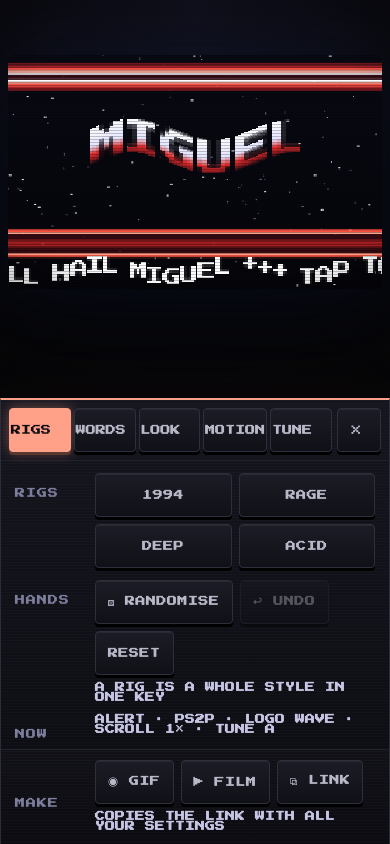
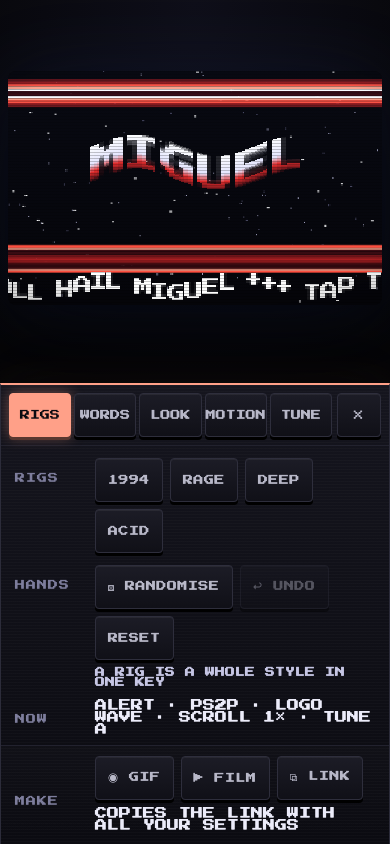
v9: the field types onto the glass, and the bay stops juggling margins
- scrolltext focus parks the whole phrase fitted in the band — the pin
  answers every keystroke; the crawl resumes on blur (scrollhold pin)
- a style change melts the old frame over the new (220ms xfade); a
  section-set swap replays the copper shutter instead of cutting
- mobile tube keeps the 0.45s park curve; deck loses its auto margin so
  the two auto margins on the tube split the room evenly around the glass;
  bay capped at 58dvh, body scrolls
- keys get 44px width everywhere; receipt thumb 56px; NOW/link notes at
  value size; placeholders at caption size; labels flash hot on swap
- greetz clip reaches past the band so bouncing caps never shear

diff --git a/src/app.css b/src/app.css
@@ -196,6 +196,9 @@ body { background: #060608; overflow: hidden; font-family: 'PS2P', monospace; }
 .dkeys { display: flex; flex-wrap: wrap; gap: 7px; align-items: center; flex: 1; }
 /* the note is the value, the label is the caption — hierarchy by light */
 .dnote { font-size: 10px; color: #c6c6e4; align-self: center; user-select: text; }
+/* a confirmation the user asked for (NOW readout, the copied link) is a
+   value, not a whisper — it sits at field-adjacent size */
+.dnote.big { font-size: 12px; color: #ececfa; }
 /* a refused clipboard earns its own row: the whole link in a field that
    selects itself, inside the bay instead of hanging off the keys */
 .urlline {
@@ -209,7 +212,8 @@ body { background: #060608; overflow: hidden; font-family: 'PS2P', monospace; }
 .field.wide { grid-column: 1 / -1; }
 .fcap { font-size: 10px; color: #9a9ab8; letter-spacing: 1px; }
 .resthumb {
-  height: 36px; border: 1px solid #2c2c3a; border-radius: 3px;
+  /* the finished card is worth a real look — tall enough to see the loop */
+  height: 56px; border: 1px solid #2c2c3a; border-radius: 3px;
   image-rendering: pixelated;
   /* the receipt grows out of the rail, not on top of it */
   animation: thumbin 0.22s steps(4) backwards; transform-origin: left center;
@@ -217,7 +221,7 @@ body { background: #060608; overflow: hidden; font-family: 'PS2P', monospace; }
 
 .key {
   font-family: 'PS2P', monospace; font-size: 10px; letter-spacing: 0.5px;
-  min-height: 44px;
+  min-height: 44px; min-width: 44px; justify-content: center;
   color: #b8b8c8;
   background: linear-gradient(#1c1c26, #101017);
   border: 1px solid #2e2e3c; border-radius: 4px;
@@ -253,28 +257,27 @@ body { background: #060608; overflow: hidden; font-family: 'PS2P', monospace; }
   padding: 8px 2px 7px; caret-color: var(--hot, #f80);
   min-width: 0;
 }
-.dinput::placeholder { color: #5d5d78; }
+/* a hint is a caption, not the value — at field size it slices mid-word */
+.dinput::placeholder { color: #5d5d78; font-size: 11px; }
 .dinput:focus { border-bottom-color: var(--hot, #f80); outline: none; }
 
 .prog { font-size: 10px; color: var(--hot, #f80); align-self: center; letter-spacing: 1px; white-space: pre; }
 
-/* a key that answers — a relabel fades the new word in on the spot instead
-   of sliding a whole new label through the keycap */
-@keyframes kswap { from { opacity: 0; } }
-.klabel { display: inline-block; animation: kswap 0.16s steps(2) backwards; }
+/* a key that answers — a relabel flashes through the hot color in two hard
+   steps, a raster flicker, not a fade that hides what changed */
+@keyframes kswap { 0% { opacity: 0; color: var(--hot, #f80); } 50% { opacity: 1; color: var(--hot, #f80); } 100% { color: inherit; } }
+.klabel { display: inline-block; animation: kswap 0.18s steps(2) backwards; }
 .prog.err { color: #ff5a50; }
 .prog.done { color: #7ee08a; }
 
 @media (max-width: 720px) {
-  .app .tube { transition: none; }
-  /* the tube centers in the room above the bay — balanced breathing room
-     beats one long black shelf under the glass */
+  /* the tube parks with the same 0.45s curve as desktop — a jump cut here
+     reads as a bug, not as speed */
   .app.editing .tube { margin-block: auto; }
-  .app.editing .deck { margin-top: auto; }
-  /* four rigs, four equal cells — ACID never orphans a row */
-  .rigkeys { display: grid; grid-template-columns: 1fr 1fr; }
-  .rigkeys .key { justify-content: center; }
-  .deck { width: 100vw; border-radius: 0; margin-top: 8px; }
+  /* the bay owns the bottom edge but takes no auto margin — two auto
+     margins on the tube split the leftover room evenly around the glass,
+     and a tall group scrolls its body instead of shrinking the tube away */
+  .deck { width: 100vw; border-radius: 0; margin-top: 8px; max-height: 58dvh; }
   .decktitle { display: none; }
   .dtabs { gap: 3px; }
   .deckhead { padding: 8px 8px; gap: 5px; }

diff --git a/src/lib/demo.ts b/src/lib/demo.ts
@@ -115,6 +115,22 @@ export class Demo {
     this.applyAssets(a);
   }
 
+  // a style change should arrive, not cut — snapshot the outgoing frame
+  // and let it melt over the new picture for a fifth of a second
+  private xfadeCv: HTMLCanvasElement | null = null;
+  private xfadeT0 = 0;
+  beginXfade() {
+    if (!this.xfadeCv) {
+      this.xfadeCv = document.createElement('canvas');
+      this.xfadeCv.width = W; this.xfadeCv.height = H;
+    }
+    this.xfadeCv.getContext('2d')!.drawImage(this.ctx.canvas, 0, 0);
+    this.xfadeT0 = performance.now();
+  }
+  // a section-set change replays the copper shutter instead of cutting
+  private wipeInT0 = -1e9;
+  wipeIn() { this.wipeInT0 = performance.now(); }
+
   private buildPlasmaPalette(ramp: RampName): Uint32Array {
     const r = RAMPS[ramp];
     // cross a cold ramp through the low indices so the field carries a second
@@ -365,7 +381,9 @@ export class Demo {
     // is ever sliced by the copper
     c.save();
     c.beginPath();
-    c.rect(0, 36, W, 118);
+    // the clip reaches a few px past the band so a bouncing cap height
+    // slides under the frame edge whole instead of shearing on it
+    c.rect(0, 33, W, 124);
     c.clip();
     if (!greetz.length) { c.restore(); this.copperBar(6, t * 3); this.copperBar(H - 30, t * 3 + 3); return; }
     const lineH = 22;
@@ -655,7 +673,7 @@ export class Demo {
   // while the deck is open it can pin the tube to the part being edited —
   // a knob you can't see move isn't a knob. '' means free rotation; a
   // section id pins that section; 'scroll' pins the classic scroller
-  previewMode: '' | 'scroll' | 'greetz' | SectionId = '';
+  previewMode: '' | 'scroll' | 'scrollhold' | 'greetz' | SectionId = '';
 
   // returns true when a pin owns the frame — shared by the live loop and
   // the reduced-motion still so the pin works in both
@@ -665,7 +683,9 @@ export class Demo {
     // absolute clock — a pin must not restart its crawl on the rotator's
     // 9-second boundary
     if (m === 'greetz') { this.renderGreetzBoard(greetz); return true; }
-    if (m === 'scroll' && still) {
+    // a focused scroll field parks the whole phrase fitted in the band —
+    // the line answers the keys as you type; the crawl resumes on blur
+    if (m === 'scrollhold' || (m === 'scroll' && still)) {
       // the frozen pin parks the phrase centered in the band — a fragment
       // frozen mid-crawl is useless to the person editing it. shrink until
       // it fits, and if even that fails keep the START of the line, not
@@ -700,6 +720,7 @@ export class Demo {
   }
 
   renderLoop(t: number, greetz: string[]) {
+    const c = this.ctx;
     if (!this.renderPinned(t, greetz)) {
       const i = Math.floor(t / 9) % (this.sections.length + 1);
       const lt = t - Math.floor(t / 9) * 9;
@@ -720,6 +741,15 @@ export class Demo {
       if (held) this.wipeSkipSec = Math.floor(t / 9);
       else if (lt < 0.45 && this.wipeSkipSec !== Math.floor(t / 9)) this.wipe(lt / 0.45);
     }
+    // a rig swap melts the outgoing frame over the new one; a section-set
+    // swap replays the shutter — the glass tells you the change landed
+    if (this.xfadeCv) {
+      const xu = (performance.now() - this.xfadeT0) / 220;
+      if (xu >= 1) this.xfadeCv = null;
+      else { c.globalAlpha = 1 - xu; c.drawImage(this.xfadeCv, 0, 0); c.globalAlpha = 1; }
+    }
+    const wu = (performance.now() - this.wipeInT0) / 450;
+    if (wu < 1) this.wipe(wu);
     // the mute badge sits above any pin — silence must be visible; a fresh
     // boot answers the same way so the state is never inferred
     if (this.muted) this.tinyText('SND OFF', 3, 0, 1);

diff --git a/src/Deck.tsx b/src/Deck.tsx
@@ -18,7 +18,7 @@ export interface ExportUi {
   error: string | null;
 }
 
-export type Preview = '' | 'scroll' | 'greetz' | SectionId;
+export type Preview = '' | 'scroll' | 'scrollhold' | 'greetz' | SectionId;
 type Tab = 'rigs' | 'words' | 'look' | 'motion' | 'tune';
 const TABS: { id: Tab; label: string }[] = [
   { id: 'rigs', label: 'RIGS' },
@@ -114,6 +114,7 @@ export default function Deck(props: {
   // draft from spec when the field isn't the thing typing it
   const [greetzDraft, setGreetzDraft] = useState(spec.greetz.join(', '));
   const [greetzFocus, setGreetzFocus] = useState(false);
+  const [scrollFocus, setScrollFocus] = useState(false);
   const xRef = useRef<HTMLButtonElement>(null);
   // the manual link hands itself over — focused and selected the moment it
   // appears, so one ⌘C is the whole interaction
@@ -146,9 +147,11 @@ export default function Deck(props: {
   // scroller, the greetz field pins the roll, everything else free-wheels
   useEffect(() => {
     secPinRef.current = '';
-    props.onPreview(greetzFocus ? 'greetz' : tab === 'words' || tab === 'motion' ? 'scroll' : '');
+    // while the scroll field is focused the tube holds the whole phrase
+    // still and fitted; unfocused, the pin crawls it
+    props.onPreview(greetzFocus ? 'greetz' : scrollFocus ? 'scrollhold' : tab === 'words' || tab === 'motion' ? 'scroll' : '');
     return () => props.onPreview('');
-  }, [tab, greetzFocus]); // eslint-disable-line react-hooks/exhaustive-deps
+  }, [tab, greetzFocus, scrollFocus]); // eslint-disable-line react-hooks/exhaustive-deps
 
   // text inputs swallow their own keys except Escape — the deck must still
   // be able to close while a field has focus
@@ -228,7 +231,7 @@ export default function Deck(props: {
               <span className="dnote">A RIG IS A WHOLE STYLE IN ONE KEY</span>
             </Row>
             <Row label="NOW">
-              <span className="dnote">
+              <span className="dnote big">
                 {`${resolved.ramp.toUpperCase()} · ${resolved.font.toUpperCase()} · LOGO ${resolved.logo.toUpperCase()} · SCROLL ${resolved.speed}× · TUNE ${resolved.tune.toUpperCase()}`}
               </span>
             </Row>
@@ -256,12 +259,14 @@ export default function Deck(props: {
             <Field cap="SCROLLTEXT · EMPTY = AUTO" wide>
               <input
                 className="dinput" aria-label="scrolltext" maxLength={200}
-                placeholder="LEAVE EMPTY FOR THE GENERATED ONE" value={spec.text}
+                placeholder="EMPTY = GENERATED" value={spec.text}
+                onFocus={() => setScrollFocus(true)}
+                onBlur={() => setScrollFocus(false)}
                 onChange={(e) => props.onPatch({ text: cleanText(e.target.value) })}
                 onKeyDown={inputKeys}
               />
             </Field>
-            <Field cap="GREETZ · COMMA LIST · EMPTY = AUTO" wide>
+            <Field cap="GREETZ · COMMA LIST" wide>
               <input
                 className="dinput" aria-label="greets list"
                 placeholder="WHO ELSE GETS A SHOUT" value={greetzDraft}
@@ -372,7 +377,7 @@ export default function Deck(props: {
                 <input ref={urlRef} className="dinput urlline" readOnly value={props.linkNote} aria-label="share link"
                   onFocus={(e) => e.currentTarget.select()} />
               ) : (
-                <span className="dnote" aria-live="polite">{props.linkNote}</span>
+                <span className="dnote big" aria-live="polite">{props.linkNote}</span>
               )}
             </>
           )}

diff --git a/src/App.tsx b/src/App.tsx
@@ -342,6 +342,13 @@ export default function App() {
   };
   const patch = (p: Partial<Spec>) => {
     if (STYLE_KEYS.some((k) => k in p)) pushUndo();
+    // the glass acknowledges a style change: a new section set replays the
+    // shutter, a palette/font/logo change melts the old frame over the new
+    const dm = demoRef.current;
+    if (dm && phaseRef.current === 'running' && !REDUCED) {
+      if ('sections' in p) dm.wipeIn();
+      else if (Object.keys(p).some((k) => (STYLE_KEYS as readonly string[]).includes(k) && k !== 'tune')) dm.beginXfade();
+    }
     setSpec((s) => ({ ...s, ...p }));
     // no thud here — the Chip's press already buzzes, and fields call patch
     // on every keystroke; a patch must not mean a sound
@@ -350,6 +357,8 @@ export default function App() {
     const prev = undoRef.current.pop();
     if (!prev) return;
     if (!undoRef.current.length) setCanUndo(false);
+    const dm = demoRef.current;
+    if (dm && phaseRef.current === 'running' && !REDUCED) dm.beginXfade();
     setSpec((s) => ({ ...s, ...prev }));
   };
   // the deck pins the tube to the part being edited
